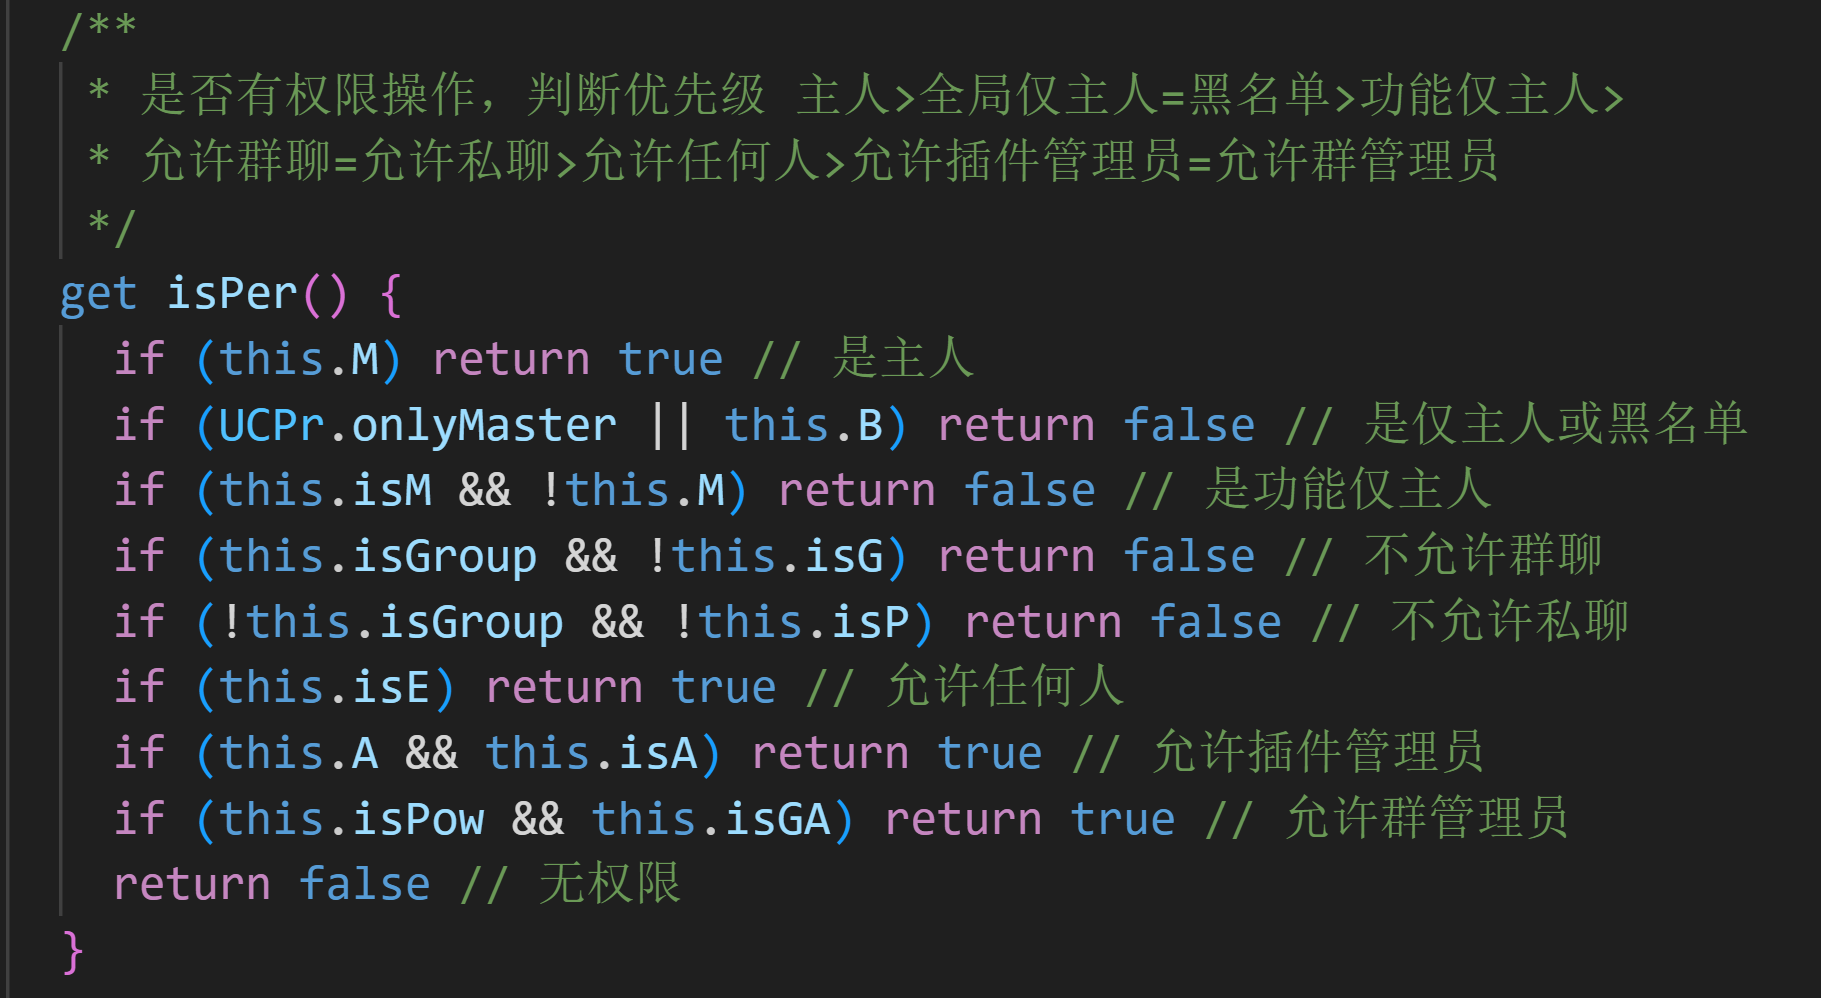
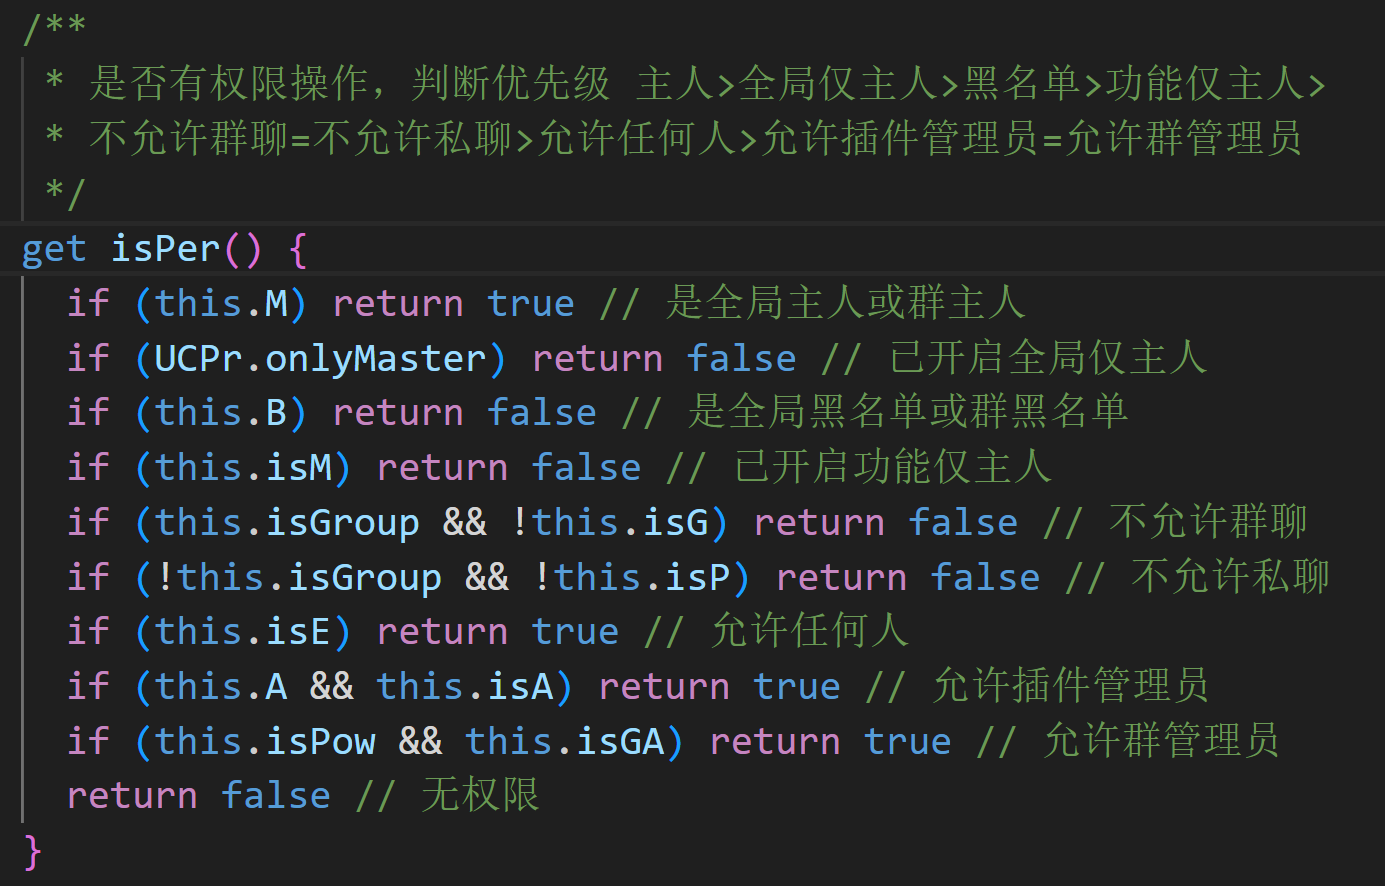
修改部分描述

diff --git a/models/Permission.js b/models/Permission.js
@@ -87,13 +87,14 @@ export default class Permission {
     return false
   }
   /**
-   * 是否有权限操作，判断优先级 主人>全局仅主人=黑名单>功能仅主人>
-   * 允许群聊=允许私聊>允许任何人>允许插件管理员=允许群管理员
+   * 是否有权限操作，判断优先级 主人>全局仅主人>黑名单>功能仅主人>
+   * 不允许群聊=不允许私聊>允许任何人>允许插件管理员=允许群管理员
    */
   get isPer() {
-    if (this.M) return true // 是主人
-    if (UCPr.onlyMaster || this.B) return false // 是仅主人或黑名单
-    if (this.isM && !this.M) return false // 是功能仅主人
+    if (this.M) return true // 是全局主人或群主人
+    if (UCPr.onlyMaster) return false // 已开启全局仅主人
+    if (this.B) return false // 是全局黑名单或群黑名单
+    if (this.isM) return false // 已开启功能仅主人
     if (this.isGroup && !this.isG) return false // 不允许群聊
     if (!this.isGroup && !this.isP) return false // 不允许私聊
     if (this.isE) return true // 允许任何人

diff --git a/components/Admin.js b/components/Admin.js
@@ -2,7 +2,7 @@ import { Path, file, UCPr, Data, log, common, Check } from './index.js'
 import _ from 'lodash'
 
 /** 权限判断优先级说明 */
-const judgePriority = '权限判断优先级：主人>全局仅主人=黑名单>功能仅主人>允许群聊=允许私聊>允许任何人>允许插件管理员=允许群管理员'
+const judgePriority = '权限判断优先级：主人>全局仅主人>黑名单>功能仅主人>不允许群聊=不允许私聊>允许任何人>允许插件管理员=允许群管理员'
 /** 权限判断字符，中文 */
 const judgeInfo = ['群聊', '私聊', '仅主人', '插管', '群管', '任何人']
 /** 权限判断字符，英文 */

diff --git a/models/Base.js b/models/Base.js
@@ -34,7 +34,7 @@ export default class Base {
       saveId: this.userId,
       cwd: this._path,
       tempPath: `${Path.Plugin_Name}/${this.model}`,
-      tplFile: `./plugins/UC-plugin/resources/html/${this.model}/${this.model}.html`,
+      tplFile: `./plugins/${Path.Plugin_Name}/resources/html/${this.model}/${this.model}.html`,
       pluResPath: this.pluResPath,
       imgType: 'jpeg',
       quality: 95,

diff --git a/README.md b/README.md
@@ -160,7 +160,7 @@ git clone https://github.com/UCPr251/UC-plugin ./plugins/UC-plugin
 
 [功能权限类别](#功能权限类别)中的6个开关中可能有冲突项，结论会按照以下判断优先级：
 
-- **是否主人 > 是否全局仅主人 = 是否黑名单 > 是否功能仅主人 > 是否允许群聊 = 是否允许私聊 > 是否允许任何人 > 是否允许插件管理员 = 是否允许群管理员**
+- **主人 > 全局仅主人 > 黑名单 > 功能仅主人 > 不允许群聊 = 不允许私聊 > 允许任何人 > 允许插件管理员 = 允许群管理员**
 
 
 <details>
